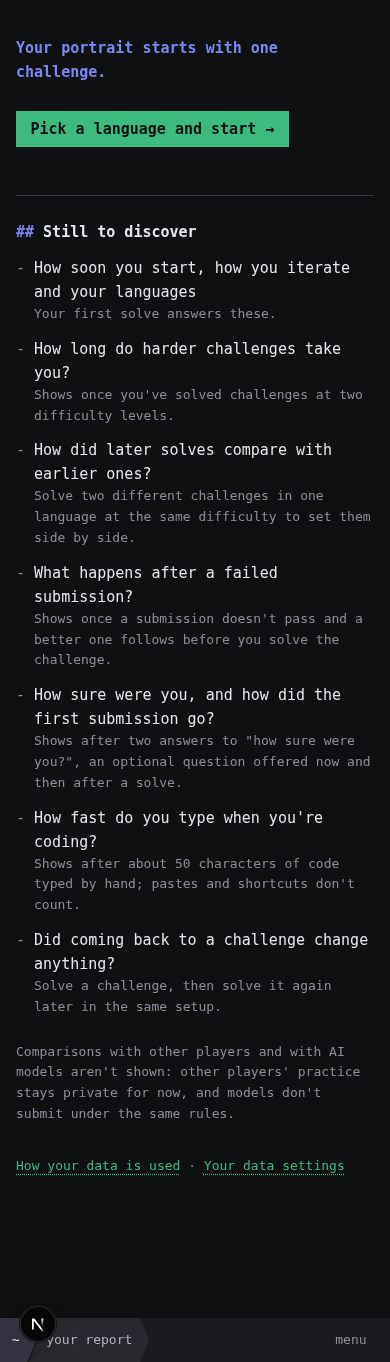
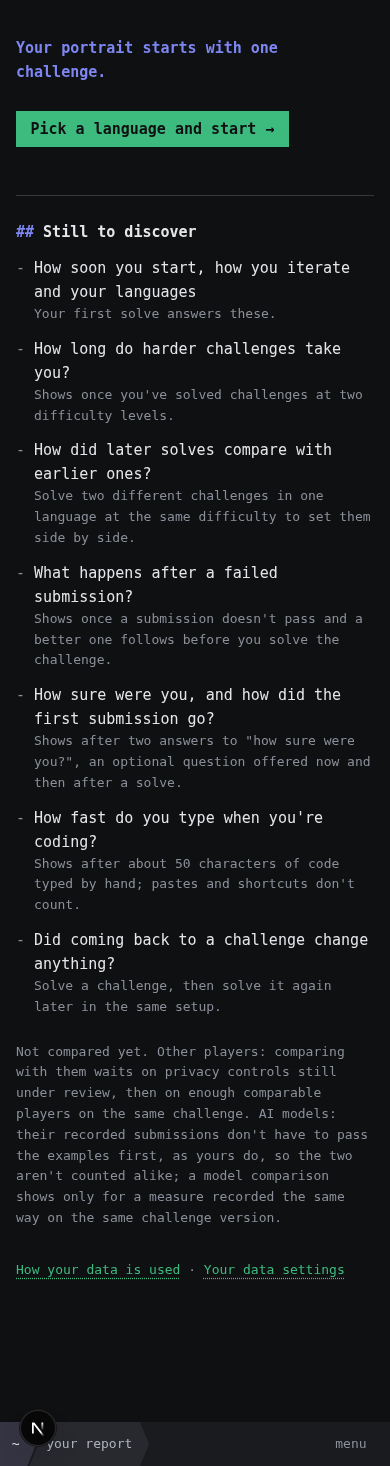
Recapture Stats evidence with the per-comparison note on current main (ENG-394)

diff --git a/docs/eng-394-evidence/README.md b/docs/eng-394-evidence/README.md
@@ -1,6 +1,6 @@
 # ENG-394 verification evidence
 
-Settled, full-page screenshots of `/stats` from `tools/browser/stats-portrait-check.ts` (Chromium, reduced motion, local dev server, 28 October 2026). All practice is **synthetic**: the fixture trace replayed on real public challenge keys and revisions, a fixture participant, no code or player data. Uploaded history is answered in the browser (an empty page, slow, or a 503); no request leaves the machine. Web Share is stubbed and never opened; nothing was shared.
+Settled, full-page screenshots of `/stats` from `tools/browser/stats-portrait-check.ts` (Chromium, reduced motion, local dev server, 28 October 2026; recaptured after the comparison note change and the merge of main 6b28dda). All practice is **synthetic**: the fixture trace replayed on real public challenge keys and revisions, a fixture participant, no code or player data. Uploaded history is answered in the browser (an empty page, slow, or a 503); no request leaves the machine. Web Share is stubbed and never opened; nothing was shared.
 
 | State | Desktop 1280×800 | 390×844 | 320×640 | Landscape 844×390 |
 | --- | --- | --- | --- | --- |
